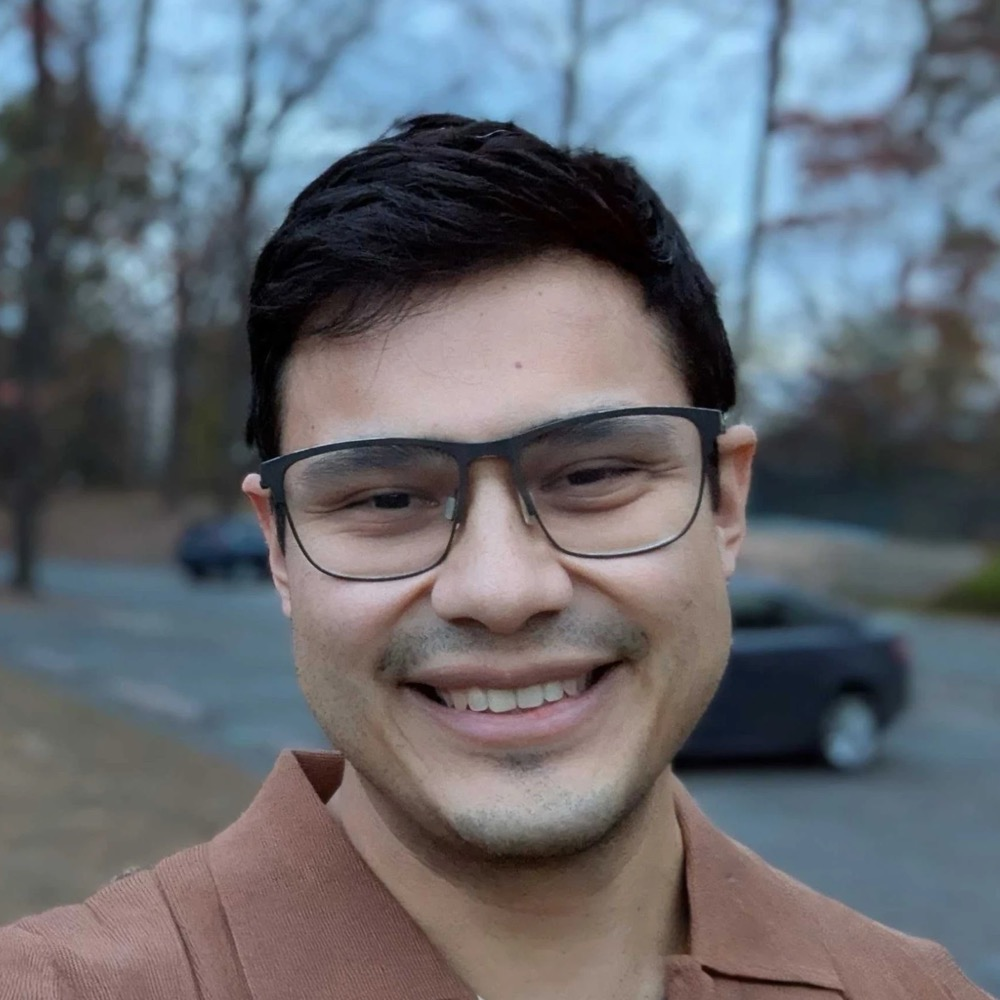
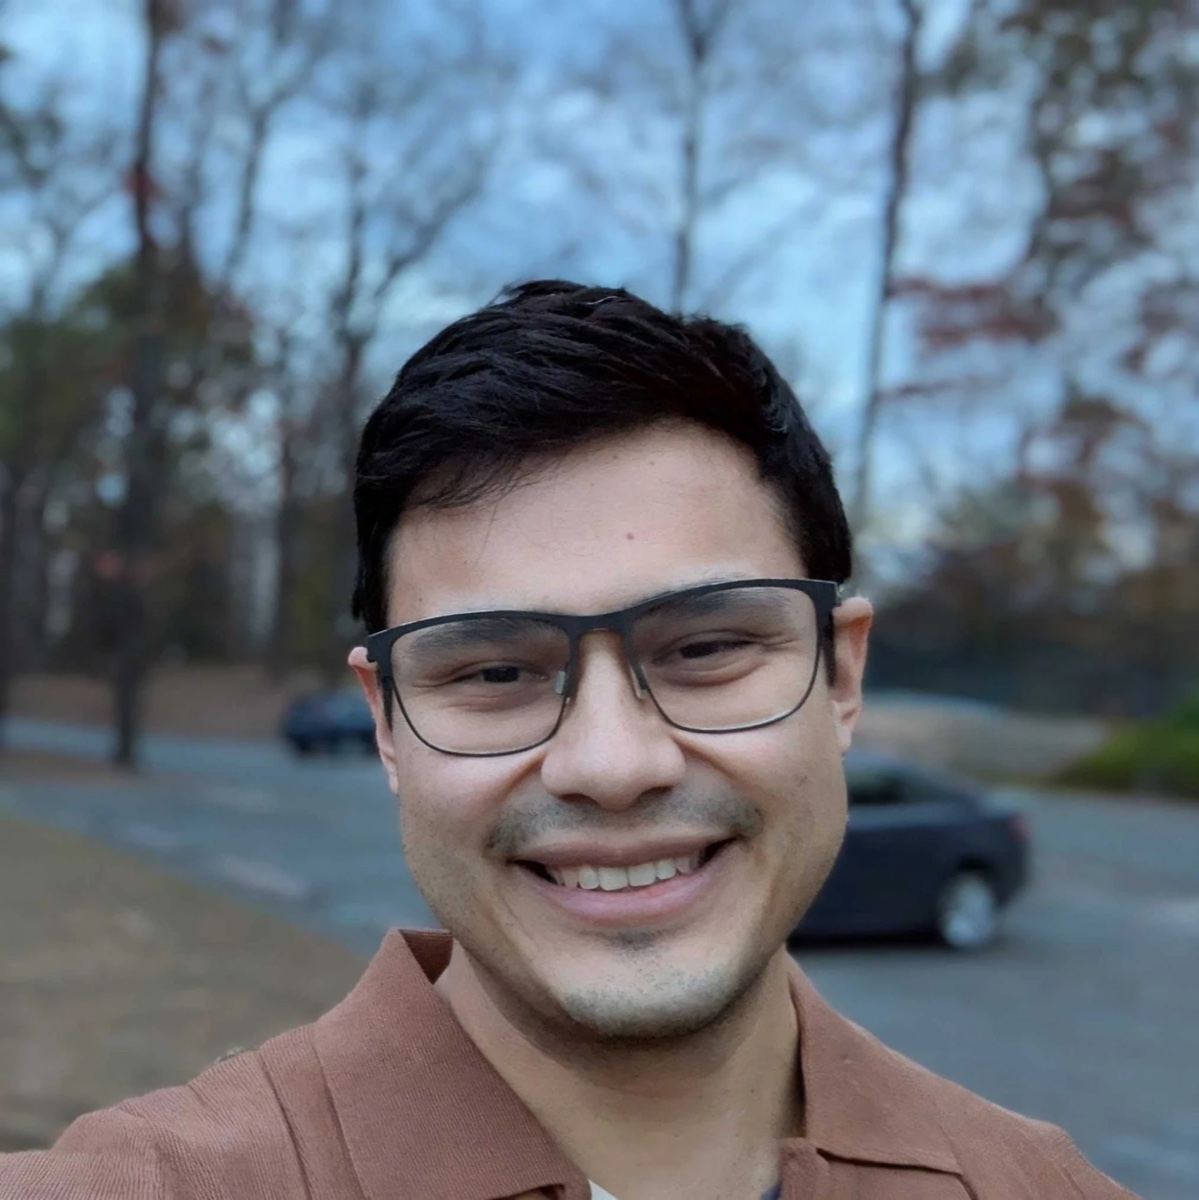
Homepage: full new photo; nav keeps each section's current ref so clicks always scroll

diff --git a/store/navStore.ts b/store/navStore.ts
@@ -11,19 +11,21 @@ interface NavStore {
   navElements: NavElement[];
   navItem: NavItems;
   setNavItem: (newItem: NavItems) => void;
-  addElement: (newElem: NavElement) => void;
+  setElement: (newElem: NavElement) => void;
 }
 
 export const useNavStore = create<NavStore>((set) => ({
   navElements: [],
   navItem: NavItems.Home,
   setNavItem: (newItem: NavItems) => set(() => ({ navItem: newItem })),
-  addElement: (newElem: NavElement) =>
-    set((state) => {
-      state.navElements.push(newElem);
-
-      return state;
-    }),
+  // One element per section; a remounted section replaces its old ref
+  setElement: (newElem: NavElement) =>
+    set((state) => ({
+      navElements: [
+        ...state.navElements.filter((elem) => elem.id !== newElem.id),
+        newElem,
+      ],
+    })),
 }));
 
 export default useNavStore;

diff --git a/hooks/useNavIntersection.ts b/hooks/useNavIntersection.ts
@@ -7,7 +7,7 @@ export const useNavIntersection = (
   threshold: number,
   currentNavSection: NavItems,
 ) => {
-  const { navItem, navElements, setNavItem, addElement } = useNavStore();
+  const { navItem, setNavItem, setElement } = useNavStore();
   const [lastNav, setLastNav] = useState(navItem);
   const ref = useRef<HTMLDivElement>();
   const { ref: inViewRef, inView } = useInView({
@@ -25,12 +25,12 @@ export const useNavIntersection = (
     [inViewRef],
   );
 
-  if (!navElements.find(navElem => navElem.id === currentNavSection)) {
-    addElement({
+  useEffect(() => {
+    setElement({
       id: currentNavSection,
       ref: ref as React.MutableRefObject<HTMLDivElement>,
     });
-  }
+  }, [currentNavSection, setElement]);
 
   useEffect(() => {
     setNavItem(inView ? currentNavSection : lastNav);

diff --git a/components/common/NavBar.tsx b/components/common/NavBar.tsx
@@ -46,14 +46,13 @@ export const NavBar = ({ items }: { items: any }) => {
       {items.map((item: any) => (
         <MenuItemWrapper
           onClick={() => {
-            const navElem = navElements.find((navElem) => navElem.id === item);
-            if (!navElem) {
-              return;
-            }
+            const section = navElements.find((navElem) => navElem.id === item)
+              ?.ref.current;
+            if (!section) return;
 
             window.scrollTo({
               behavior: 'smooth',
-              top: navElem.ref.current.offsetTop - 128,
+              top: section.offsetTop - 128,
             });
           }}
           key={item}
